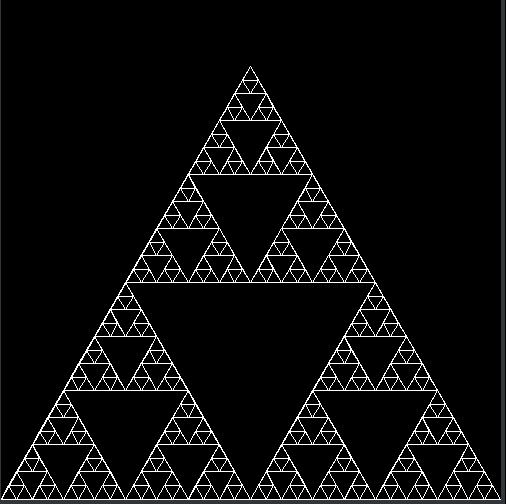
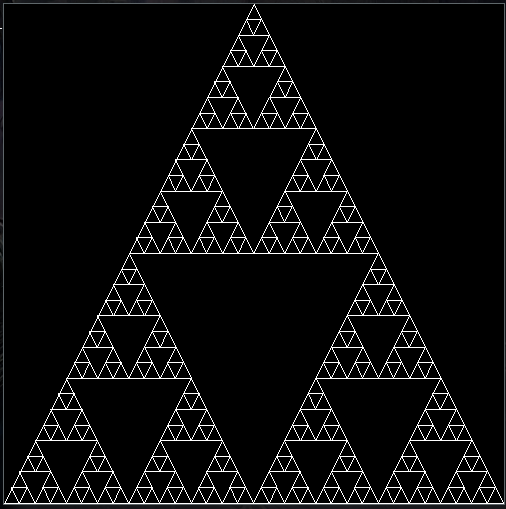
Rewrited the whole triangle drawing function

Changed region(s): [[0.0, 0.0, 1.0, 1.0]]

diff --git a/triangle.c b/triangle.c
@@ -1,0 +1,85 @@
+#include <SDL2/SDL.h>
+
+#define SCREEN_SIZE 500
+#define PI 3.14159f
+#define DEG_TO_RAD (PI / 180.f)
+
+SDL_Window* win = 0;
+SDL_Renderer* render = 0;
+
+float mid(float a, float b)
+{
+	return a + (b - a) / 2;
+}
+
+
+void triangle(float x1, float y1, float x2, float y2, float x3, float y3, char first, int remaining)
+{
+	if (remaining == 0) return;
+
+	if (first)
+	{
+		SDL_RenderDrawLine(render, x1, y1, x2, y2);
+		SDL_RenderDrawLine(render, x2, y2, x3, y3);
+		SDL_RenderDrawLine(render, x3, y3, x1, y1);
+	}
+
+	//Draw the inverse triangle
+	SDL_RenderDrawLine(render, mid(x1, x3), mid(y1, y3), mid(x1, x2), mid(y1, y2));
+	SDL_RenderDrawLine(render, mid(x1, x2), mid(y1, y2), mid(x3, x2), mid(y3, y2));
+	SDL_RenderDrawLine(render, mid(x2, x3), mid(y2, y3), mid(x1, x3), mid(y1, y3));
+
+	//Top subtriangle
+	triangle(mid(x1, x3), mid(y1, y3), //bottom left vertice
+			mid(x3, x2), mid(y3, y2), //bottom right vertice
+			x3, y3, 0, remaining - 1); //top vertice
+
+	//Bottom left triangle
+	triangle(x1, y1, //bottom left vertice
+			mid(x2, x1), mid(y2, y1), //bottom right vertice
+			mid(x1, x3), mid(y1, y3), 0, remaining - 1); //top vertice
+	
+	//Bottom right triangle
+	triangle(mid(x1, x2), mid(y1, y2), //bottom left vertice
+			x2, y2, //bottom right vertice
+			mid(x3, x2), mid(y3, y2), 0, remaining - 1); //top vertice
+}
+void subtriangle(float x1, float y1, float x2, float y2, float x3, float y3)
+{
+	SDL_RenderDrawLine(render, x1, y1, x2, y2);
+	SDL_RenderDrawLine(render, x2, y2, x3, y3);
+	SDL_RenderDrawLine(render, x3, y3, x1, y1);
+}
+
+int main(int argc, char** argv)
+{
+	win = SDL_CreateWindow("Recursive triforce", SDL_WINDOWPOS_CENTERED, SDL_WINDOWPOS_CENTERED, SCREEN_SIZE, SCREEN_SIZE, SDL_WINDOW_SHOWN);
+	render = SDL_CreateRenderer(win, -1, 0);
+
+	char drawn = 0;
+	char running = 1;
+
+	SDL_Event ev;
+	while (running)
+	{
+		while (SDL_WaitEventTimeout(&ev, 10))
+		{
+			if (ev.type == SDL_QUIT)
+			{
+				running = 0;
+			}
+		}
+		if (!drawn)
+		{
+			SDL_SetRenderDrawColor(render, 0, 0, 0, 0);
+			SDL_RenderClear(render);
+
+			SDL_SetRenderDrawColor(render, 255, 255, 255, 0);
+			triangle(0, SCREEN_SIZE - 1, //Left bottom vertice
+					SCREEN_SIZE - 1, SCREEN_SIZE - 1, //Right bottom vertice
+					SCREEN_SIZE / 2, 0, //Top vertice
+					1, 5);
+			SDL_RenderPresent(render);
+		}
+	}
+}

diff --git a/README.md b/README.md
@@ -1,8 +1,8 @@
-A program which draws recursively triforces inside other triforces.
+A program which draws the Sierpinski triangle using recursion.
 ![png](screenshot.png)
 
 ### Build
 You should have installed SDL2 development libraries.
 ```
-gcc triforce.c -lSDL2 -lSDL2main
+gcc triangle.c -lSDL2 -lSDL2main
 ```
